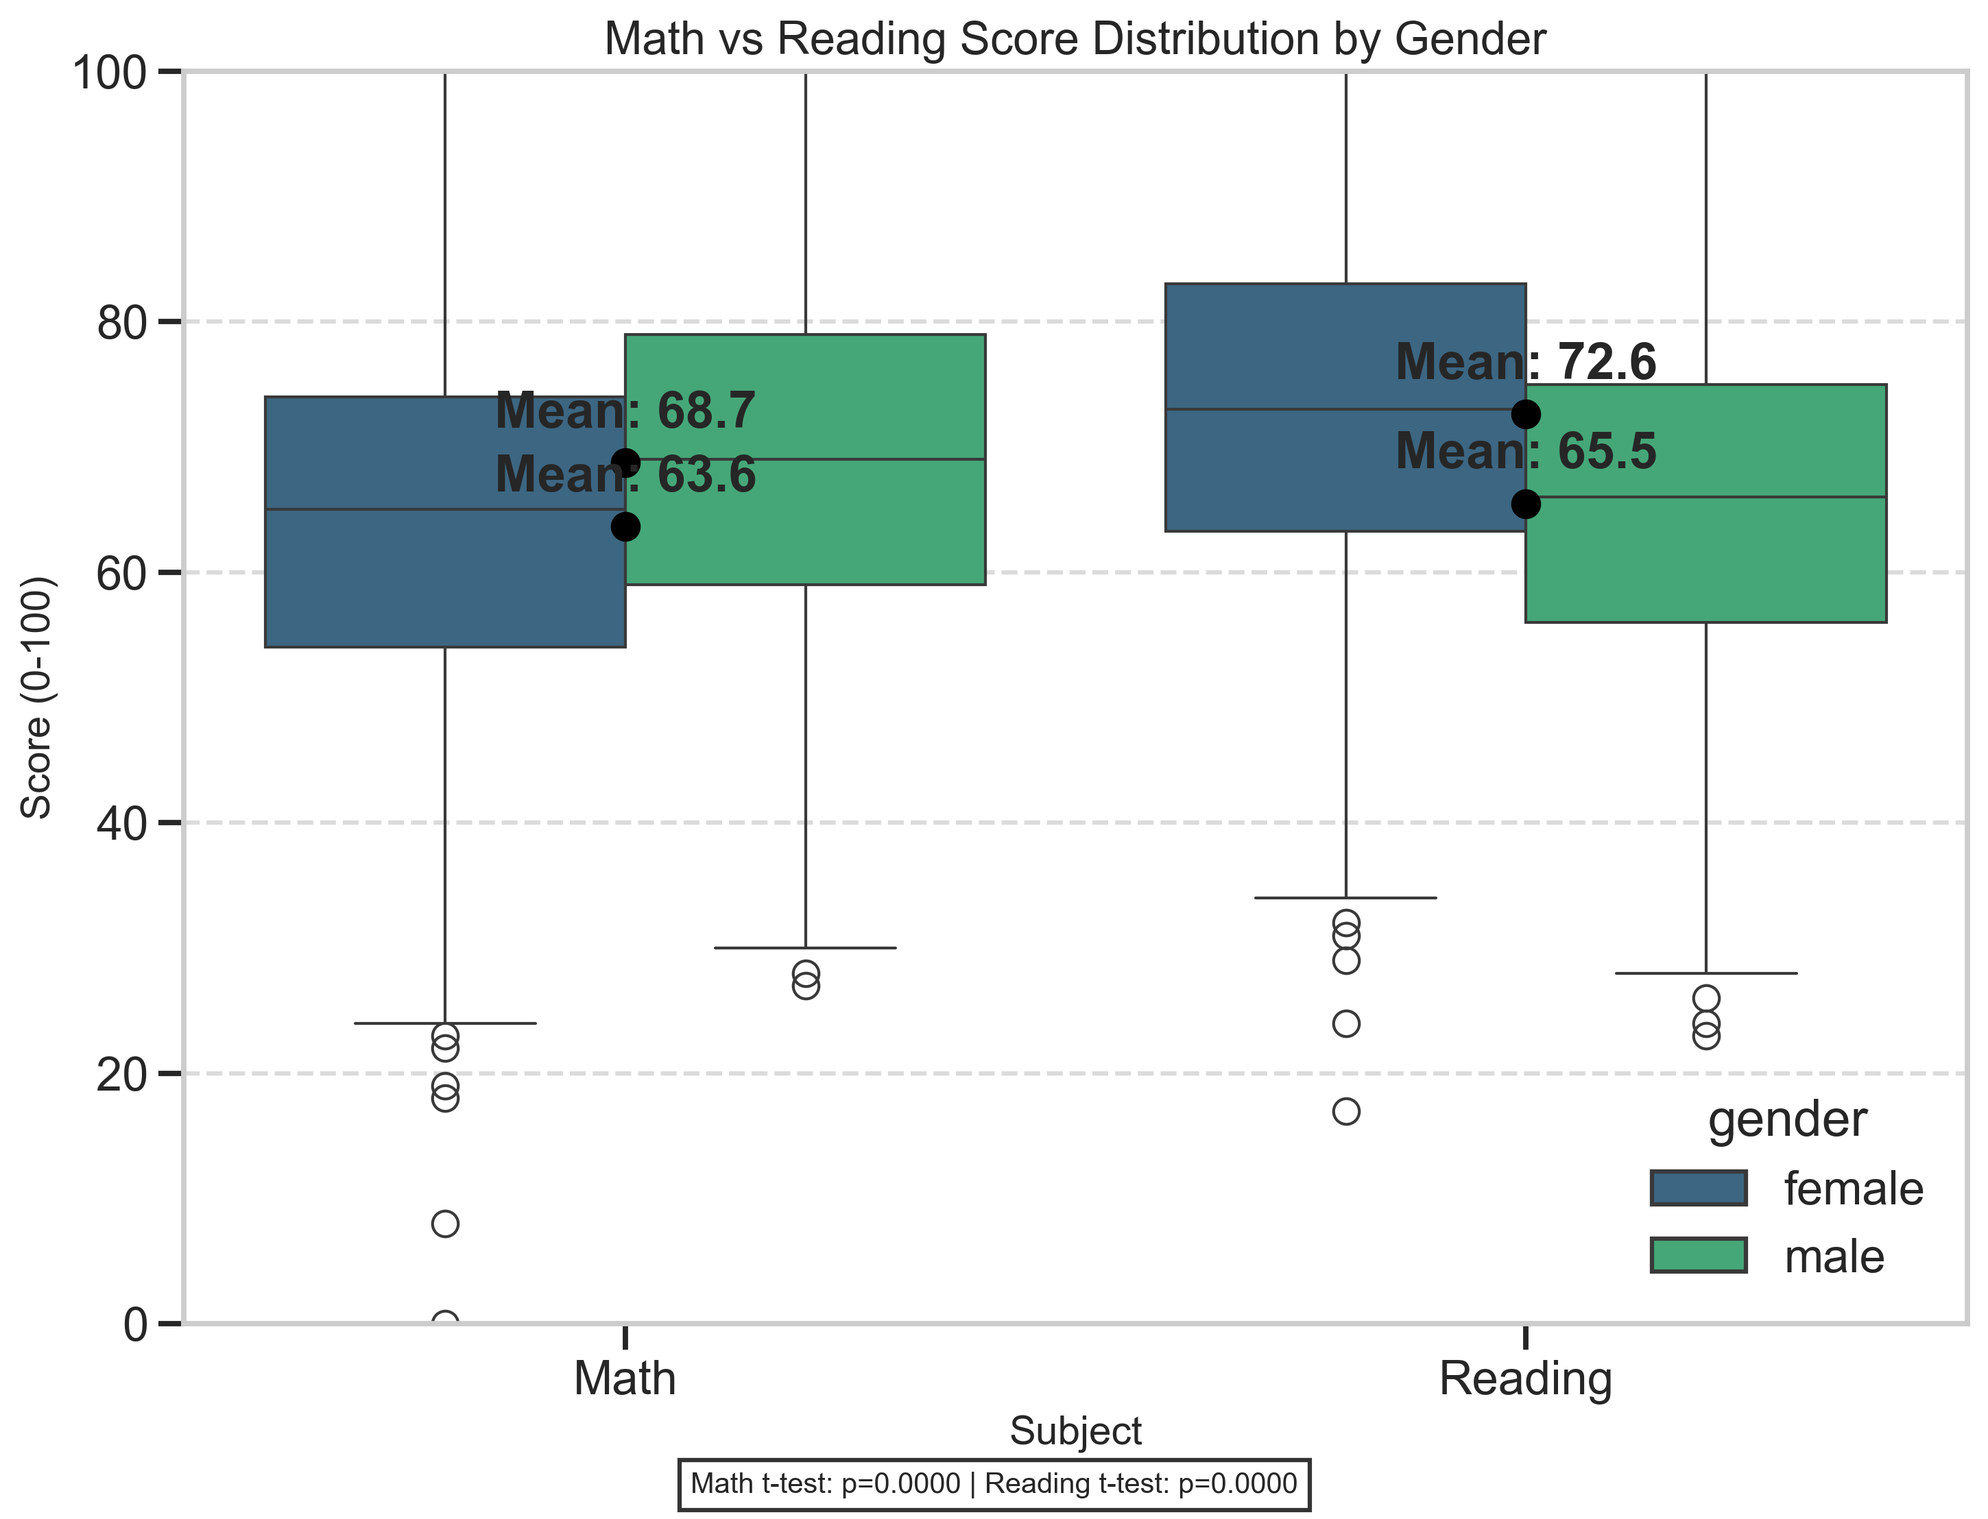
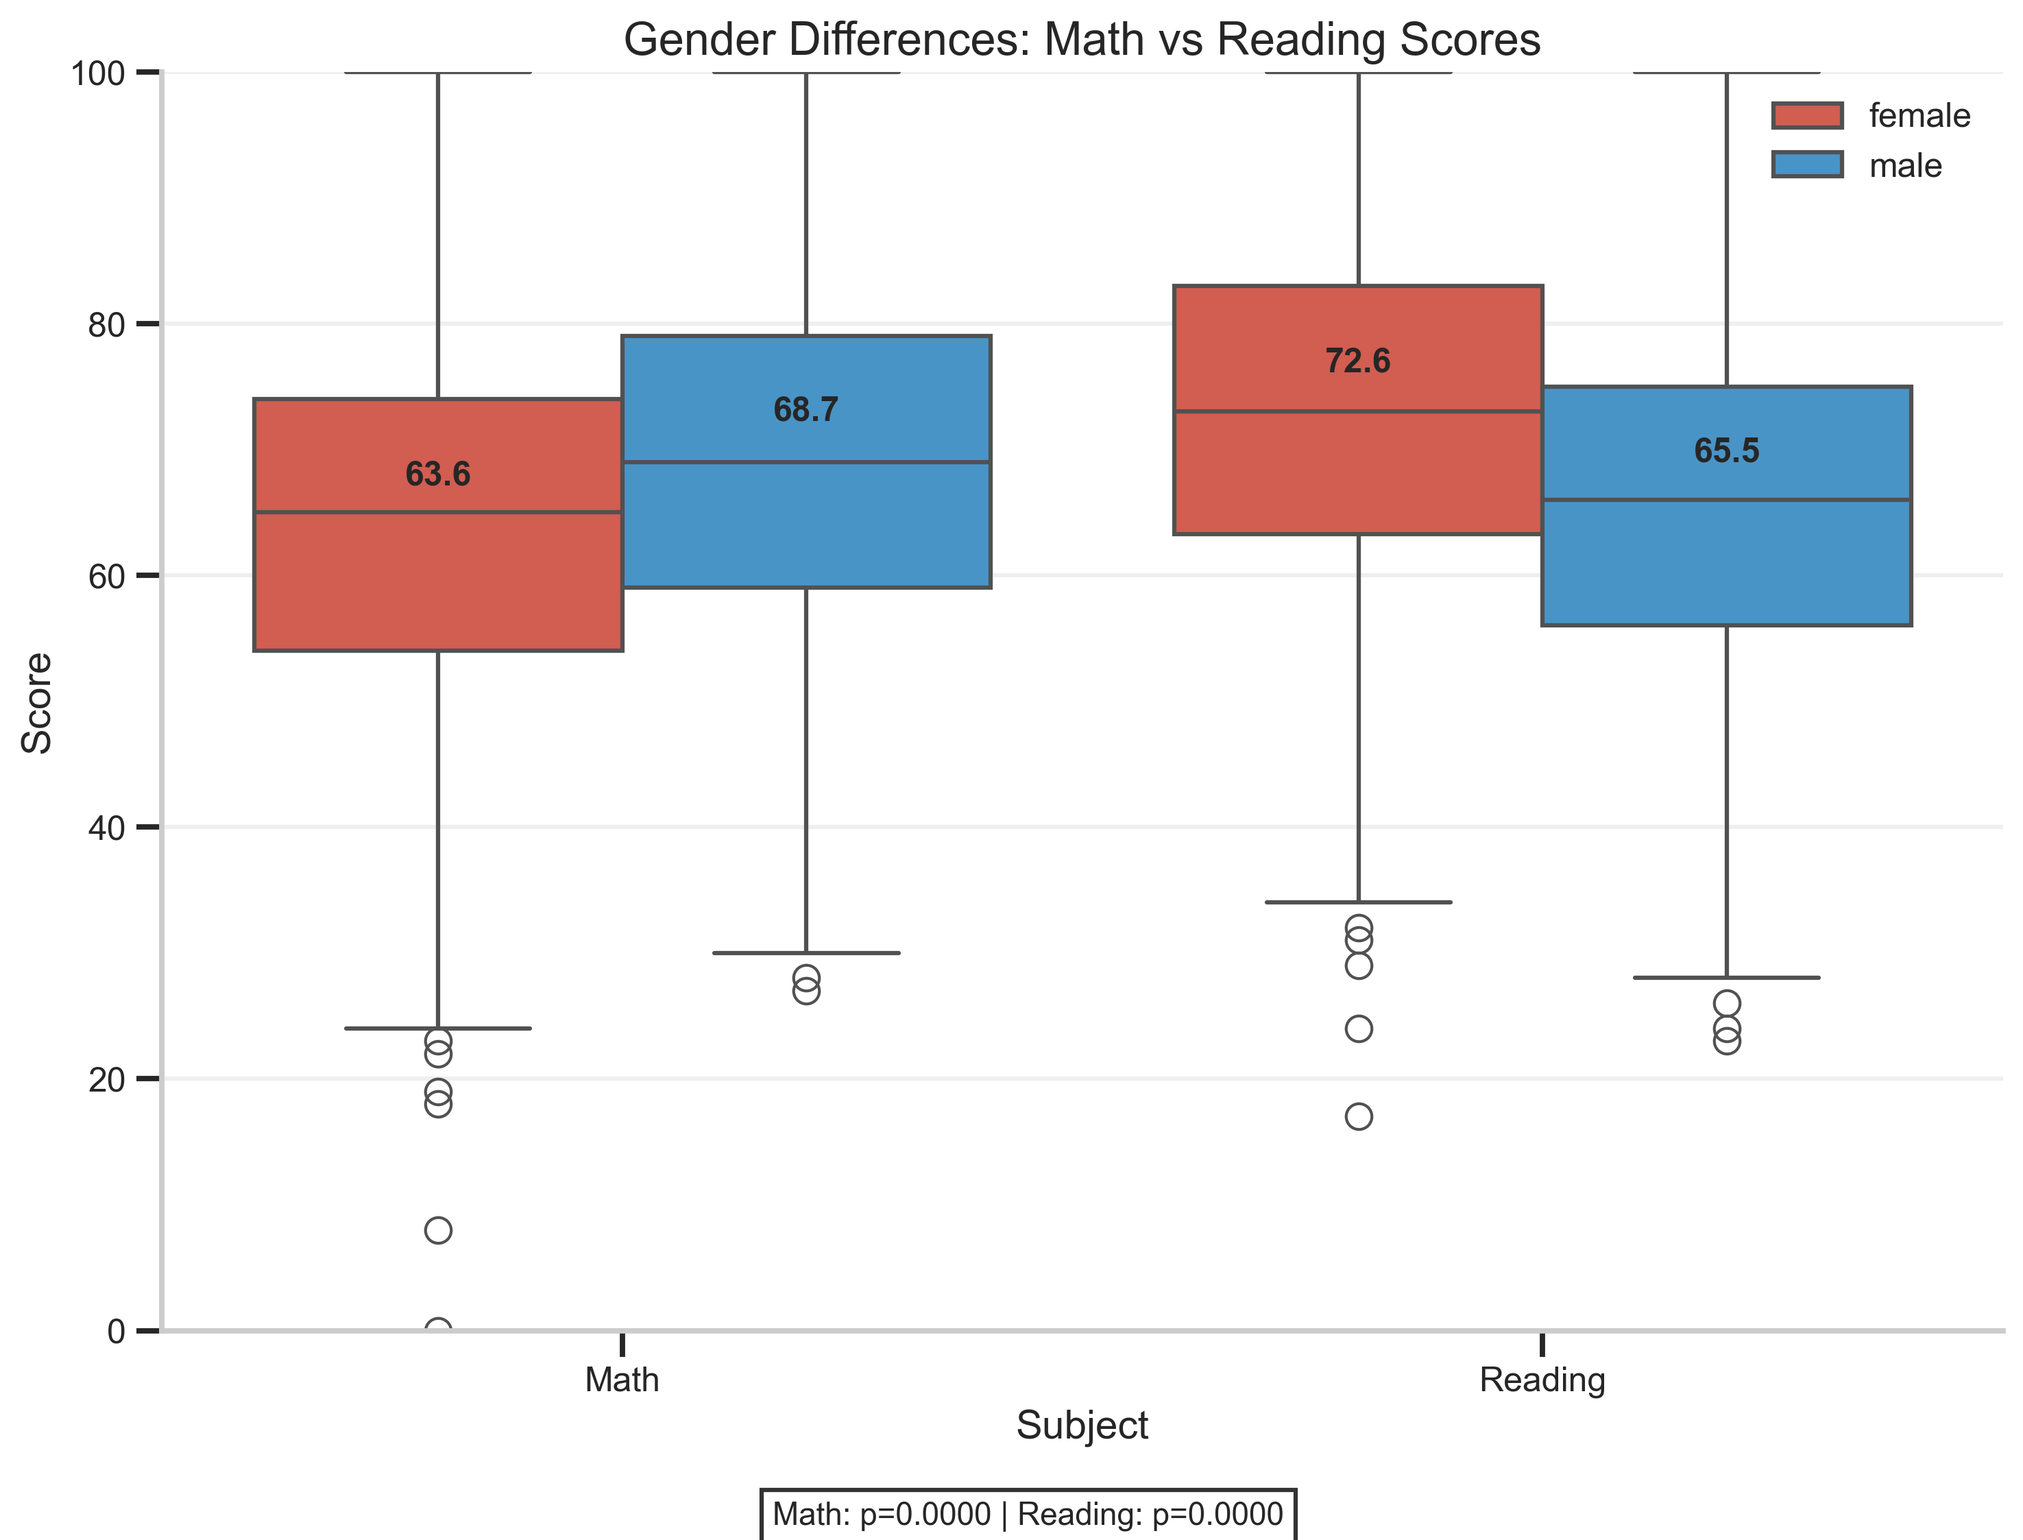
refactor(question-02): enhance visualizations

diff --git a/question-02/src/3_visualize.py b/question-02/src/3_visualize.py
@@ -30,8 +30,25 @@ reports_path = os.path.join(project_dir, 'reports')
 findings_path = os.path.join(reports_path, 'visualization_findings.md')
 
 # Common figure parameters
-FIG_SIZE = (10, 7.5)  # 800x600 at 100 DPI, we'll set DPI=300 when saving
+FIG_SIZE = (10, 7.5)  # 800x600 at 100 DPI, set DPI=300 when saving
 DPI = 300
+
+# Set general matplotlib parameters for cleaner plots
+plt.rcParams.update({
+    'font.size': 12,                    # Larger base font size
+    'axes.titlesize': 16,               # Large title
+    'axes.labelsize': 14,               # Clear axis labels
+    'xtick.labelsize': 12,              # Readable tick labels
+    'ytick.labelsize': 12,
+    'legend.fontsize': 12,              # Readable legend
+    'axes.spines.top': False,           # Remove top border
+    'axes.spines.right': False,         # Remove right border
+    'axes.grid': True,                  # Add light grid
+    'grid.alpha': 0.3,                  # Make grid subtle
+    'figure.figsize': FIG_SIZE,         # Consistent figure size
+    'figure.dpi': 100,                  # Screen display DPI
+    'savefig.dpi': DPI                  # Higher DPI for saved figures
+})
 
 def visualize_data():
     print("Stage 3: Data Visualization")
@@ -87,30 +104,36 @@ def create_gender_boxplots(df, save_path):
     plot_data = pd.concat([math_by_gender, reading_by_gender])
     
     # Create the plot
-    plt.figure(figsize=FIG_SIZE)
+    plt.figure()
     
-    # Create boxplot
-    sns.boxplot(x='subject', y='score', hue='gender', data=plot_data, palette='viridis')
+    # Create boxplot with consistent color mapping
+    sns.boxplot(x='subject', y='score', hue='gender', data=plot_data, 
+               palette={'female': '#e74c3c', 'male': '#3498db'}, linewidth=1.5)
     
     # Calculate and display means
     for subject in ['Math', 'Reading']:
-        for gender in ['male', 'female']:
-            subset = plot_data[(plot_data['subject'] == subject) & (plot_data['gender'] == gender)]
-            mean_score = subset['score'].mean()
-            plt.scatter(x=0 if subject == 'Math' else 1, y=mean_score, 
-                     marker='o', color='black', s=80, zorder=3)
-            plt.text(0 if subject == 'Math' else 1, mean_score + 2, 
-                  f'Mean: {mean_score:.1f}', 
-                  ha='center', va='bottom', fontweight='bold')
+        subject_idx = 0 if subject == 'Math' else 1
+        
+        # Calculate means for both genders
+        male_subset = plot_data[(plot_data['subject'] == subject) & (plot_data['gender'] == 'male')]
+        female_subset = plot_data[(plot_data['subject'] == subject) & (plot_data['gender'] == 'female')]
+        
+        male_mean = male_subset['score'].mean()
+        female_mean = female_subset['score'].mean()
+        
+        # Position text labels
+        plt.text(subject_idx - 0.2, female_mean + 3, f'{female_mean:.1f}', 
+              ha='center', va='bottom', fontweight='bold', fontsize=12)
+        plt.text(subject_idx + 0.2, male_mean + 3, f'{male_mean:.1f}', 
+              ha='center', va='bottom', fontweight='bold', fontsize=12)
     
     # Customize plot
-    plt.title('Math vs Reading Score Distribution by Gender', fontsize=16)
-    plt.xlabel('Subject', fontsize=14)
-    plt.ylabel('Score (0-100)', fontsize=14)
+    plt.title('Gender Differences: Math vs Reading Scores')
+    plt.xlabel('Subject')
+    plt.ylabel('Score')
     plt.ylim(0, 100)
-    plt.grid(axis='y', linestyle='--', alpha=0.7)
     
-    # Add statistical annotation
+    # Simplified statistical annotation
     math_male = df[df['gender'] == 'male']['math_score']
     math_female = df[df['gender'] == 'female']['math_score']
     reading_male = df[df['gender'] == 'male']['reading_score']
@@ -119,9 +142,12 @@ def create_gender_boxplots(df, save_path):
     math_ttest = stats.ttest_ind(math_male, math_female)
     reading_ttest = stats.ttest_ind(reading_male, reading_female)
     
-    plt.figtext(0.5, 0.01, 
-              f"Math t-test: p={math_ttest.pvalue:.4f} | Reading t-test: p={reading_ttest.pvalue:.4f}", 
-              ha='center', fontsize=10, bbox=dict(facecolor='white', alpha=0.8))
+    stat_text = f"Math: p={math_ttest.pvalue:.4f} | Reading: p={reading_ttest.pvalue:.4f}"
+    plt.annotate(stat_text, xy=(0.5, 0.01), xycoords='figure fraction', 
+               ha='center', fontsize=11, bbox=dict(facecolor='white', alpha=0.8))
+    
+    # Enhance legend
+    plt.legend(title=None, loc='upper right')
     
     # Save the figure
     plt.tight_layout()
@@ -134,23 +160,23 @@ def create_gender_boxplots(df, save_path):
 def create_test_prep_impact(df, save_path):
     """B. V2 - Test prep impact on math"""
     
-    plt.figure(figsize=FIG_SIZE)
+    plt.figure()
     
-    # Create violin plots with embedded boxplots - reverse the order with order parameter
-    sns.violinplot(x='test_preparation_course', y='math_score', 
-                 data=df, palette='viridis', inner='box', order=['completed', 'none'])
+    # Create simpler boxplots instead of violin plots for clarity
+    # Fix the FutureWarning by properly using hue instead of palette directly
+    sns.boxplot(x='test_preparation_course', y='math_score', 
+              data=df, hue='test_preparation_course', 
+              palette=['#2ecc71', '#f39c12'], 
+              order=['completed', 'none'], legend=False,
+              width=0.6, linewidth=1.5)
     
-    # Add individual data points with jitter
-    sns.stripplot(x='test_preparation_course', y='math_score', 
-                data=df, color='black', alpha=0.3, size=3, jitter=True, order=['completed', 'none'])
-    
-    # Calculate and display means - note the index is reversed
+    # Calculate and display means more clearly
     courses = ['completed', 'none']
     for i, course in enumerate(courses):
         mean_score = df[df['test_preparation_course'] == course]['math_score'].mean()
-        plt.scatter(x=i, y=mean_score, marker='o', color='red', s=100, zorder=3)
-        plt.text(i, mean_score + 2, f'Mean: {mean_score:.1f}', 
-              ha='center', va='bottom', fontweight='bold', color='red')
+        plt.text(i, mean_score + 2, f'{mean_score:.1f}', 
+              ha='center', va='bottom', fontweight='bold', fontsize=14,
+              color='black')
     
     # Add statistical test
     completed = df[df['test_preparation_course'] == 'completed']['math_score']
@@ -158,16 +184,15 @@ def create_test_prep_impact(df, save_path):
     ttest_result = stats.ttest_ind(completed, none)
     
     # Customize plot
-    plt.title('Impact of Test Preparation on Math Score', fontsize=16)
-    plt.xlabel('Test Preparation Course', fontsize=14)
-    plt.ylabel('Math Score (0-100)', fontsize=14)
+    plt.title('Impact of Test Preparation on Math Score')
+    plt.xlabel('Test Preparation')
+    plt.ylabel('Math Score')
     plt.ylim(0, 100)
-    plt.grid(axis='y', linestyle='--', alpha=0.7)
     
-    # Add statistical annotation
-    plt.figtext(0.5, 0.01, 
-              f"t-test: p={ttest_result.pvalue:.4f}", 
-              ha='center', fontsize=10, bbox=dict(facecolor='white', alpha=0.8))
+    # Add clearer statistical annotation
+    plt.annotate(f"p={ttest_result.pvalue:.4f}", 
+               xy=(0.5, 0.01), xycoords='figure fraction', 
+               ha='center', fontsize=11, bbox=dict(facecolor='white', alpha=0.8))
     
     # Save the figure
     plt.tight_layout()
@@ -192,24 +217,27 @@ def create_lunch_performance(df, save_path):
     plot_data['subject'] = plot_data['subject'].str.replace('_score', '').str.capitalize()
     
     # Create the plot
-    plt.figure(figsize=FIG_SIZE)
+    plt.figure()
     
-    # Create grouped bar chart
-    ax = sns.barplot(x='lunch', y='average_score', hue='subject', data=plot_data, palette='viridis')
+    # Create grouped bar chart with clearer colors
+    bar_colors = ['#3498db', '#2ecc71', '#9b59b6']  # Blue, green, purple
+    ax = sns.barplot(x='lunch', y='average_score', hue='subject', data=plot_data, 
+                   palette=bar_colors, edgecolor='white', linewidth=1)
     
-    # Add value labels on bars
+    # Add simplified value labels on bars
     for p in ax.patches:
-        ax.annotate(f'{p.get_height():.1f}', 
-                  (p.get_x() + p.get_width() / 2., p.get_height()), 
-                  ha='center', va='bottom', fontweight='bold')
+        height = p.get_height()
+        ax.annotate(f'{height:.0f}', 
+                  (p.get_x() + p.get_width() / 2., height + 0.5), 
+                  ha='center', va='bottom', fontweight='bold', fontsize=11)
     
     # Add overall average line for each lunch type
     for i, lunch_type in enumerate(['free/reduced', 'standard']):
         overall_avg = df[df['lunch'] == lunch_type]['overall_avg'].mean()
         plt.axhline(y=overall_avg, xmin=i/2, xmax=(i+1)/2, 
-                  color='red', linestyle='--', linewidth=2)
-        plt.text(i, overall_avg - 4, f'Overall: {overall_avg:.1f}', 
-              ha='center', va='top', color='red', fontweight='bold')
+                  color='#e74c3c', linestyle='-', linewidth=2)
+        plt.text(i, overall_avg - 3, f'Avg: {overall_avg:.1f}', 
+              ha='center', va='top', color='black', fontweight='bold')
     
     # Statistical test
     std_overall = df[df['lunch'] == 'standard']['overall_avg']
@@ -217,17 +245,22 @@ def create_lunch_performance(df, save_path):
     ttest_result = stats.ttest_ind(std_overall, free_overall)
     
     # Customize plot
-    plt.title('Average Test Scores by Lunch Type', fontsize=16)
-    plt.xlabel('Lunch Type', fontsize=14)
-    plt.ylabel('Average Score (0-100)', fontsize=14)
-    plt.ylim(0, 100)
-    plt.grid(axis='y', linestyle='--', alpha=0.7)
-    plt.legend(title='Subject')
+    plt.title('Average Scores by Lunch Type')
+    plt.xlabel('Lunch Type')
+    plt.ylabel('Score')
+    plt.ylim(0, 85)
     
-    # Add statistical annotation
-    plt.figtext(0.5, 0.01, 
-              f"Overall average t-test: p={ttest_result.pvalue:.4f}", 
-              ha='center', fontsize=10, bbox=dict(facecolor='white', alpha=0.8))
+    # Clean up legend
+    plt.legend(title=None, loc='upper right', frameon=True, framealpha=0.9)
+    
+    # Create t-test
+    ttest_result = stats.ttest_ind(std_overall, free_overall)
+
+    # Add clearer statistical annotation
+    plt.annotate(f"p={ttest_result.pvalue:.4f}", 
+               xy=(0.5, 0.01), xycoords='figure fraction', 
+               ha='center', fontsize=11,
+               bbox=dict(facecolor='white', alpha=0.8))
     
     # Save the figure
     plt.tight_layout()
@@ -244,22 +277,40 @@ def create_subject_correlations(df, save_path):
     subjects = ['math_score', 'reading_score', 'writing_score']
     corr_matrix = df[subjects].corr()
     
-    # Create the plot
-    plt.figure(figsize=FIG_SIZE)
+    # Rename columns/index for display
+    pretty_names = {'math_score': 'Math', 'reading_score': 'Reading', 'writing_score': 'Writing'}
+    corr_matrix = corr_matrix.rename(index=pretty_names, columns=pretty_names)
     
-    # Create heatmap
+    # Create the plot with square aspect ratio
+    plt.figure(figsize=(8, 6.5))
+    
+    # Create heatmap with improved readability
+    cmap = sns.diverging_palette(230, 20, as_cmap=True)
     mask = np.triu(np.ones_like(corr_matrix, dtype=bool))
-    sns.heatmap(corr_matrix, annot=True, fmt='.3f', cmap='viridis', 
-             mask=mask, vmin=0, vmax=1, square=True, linewidths=1, cbar_kws={"shrink": .8})
     
-    # Add correlations as text for the masked upper triangle
+    sns.heatmap(
+        corr_matrix, 
+        annot=True,            # Show the correlation values
+        fmt='.2f',             # Simpler number format (2 decimal places)
+        cmap=cmap,             # Better color scheme
+        mask=mask,             # Show only half of the symmetric matrix
+        vmin=0.75, vmax=1.0,   # Focus scale on relevant range
+        square=True,           # Make cells square
+        linewidths=0.8,        # Thin lines between cells
+        annot_kws={"size": 14, "weight": "bold"},  # Make numbers more readable
+        cbar_kws={"shrink": .8, "label": "Correlation"}  # Improve colorbar
+    )
+    
+    # Add correlations as text for the upper triangle
     for i in range(len(corr_matrix)):
         for j in range(i+1, len(corr_matrix)):
-            plt.text(j+0.5, i+0.5, f'{corr_matrix.iloc[i, j]:.3f}',
-                  ha='center', va='center', color='black', fontweight='bold')
+            plt.text(j+0.5, i+0.5, f'{corr_matrix.iloc[i, j]:.2f}',
+                  ha='center', va='center', color='black', fontweight='bold', fontsize=14)
     
     # Customize plot
-    plt.title('Correlation Heatmap Between Subject Scores', fontsize=16)
+    plt.title('Subject Score Correlations')
+    
+    # Save the figure with tight layout
     plt.tight_layout()
     plt.savefig(save_path, dpi=DPI, bbox_inches='tight')
     plt.close()
@@ -270,11 +321,12 @@ def create_subject_correlations(df, save_path):
 def create_math_reading_scatter(df, save_path):
     """E. V5 - Math vs reading scatter with trend lines by test prep"""
     
-    plt.figure(figsize=FIG_SIZE)
+    plt.figure()
     
-    # Create scatter plot with different colors for test prep groups
+    # Create scatter plot with clearer colors and better visibility
     groups = df['test_preparation_course'].unique()
-    colors = {'completed': 'green', 'none': 'orange'}
+    colors = {'completed': '#2ecc71', 'none': '#e67e22'}
+    markers = {'completed': 'o', 'none': 'x'}
     
     # Plot each group with regression line
     for group in groups:
@@ -287,33 +339,36 @@ def create_math_reading_scatter(df, save_path):
         slope, intercept, r_value, p_value, std_err = stats.linregress(
             subset['reading_score'], subset['math_score'])
         
-        # Plot scatter
+        # Plot scatter with reduced point size and increased clarity
         plt.scatter(subset['reading_score'], subset['math_score'], 
-                  alpha=0.6, color=colors[group], 
+                  alpha=0.5, color=colors[group], s=40,
+                  marker=markers[group], edgecolor='none',
                   label=f"{group} (n={n})")
         
-        # Add regression line
-        x = np.array([0, 100])
+        # Add regression line with increased width for visibility
+        x = np.array([20, 100])
         y = intercept + slope * x
-        plt.plot(x, y, color=colors[group], linewidth=2)
+        plt.plot(x, y, color=colors[group], linewidth=3)
         
-        # Add regression equation text
-        text_x = subset['reading_score'].mean()
-        text_y = intercept + slope * text_x + 5
-        plt.text(text_x, text_y, f"y = {intercept:.1f} + {slope:.2f}x\nR² = {r_value**2:.2f}", 
-               color=colors[group], fontweight='bold', ha='center', bbox=dict(facecolor='white', alpha=0.7))
+        # Add simpler regression equation text
+        text_x = 70
+        text_y = intercept + slope * text_x + (8 if group == 'completed' else -8)
+        plt.text(text_x, text_y, f"R² = {r_value**2:.2f}", 
+               color=colors[group], fontweight='bold', fontsize=12, ha='center', 
+               bbox=dict(facecolor='white', alpha=0.9, edgecolor=colors[group], boxstyle='round,pad=0.3'))
     
     # Customize plot
-    plt.title('Math vs Reading Scores by Test Preparation Status', fontsize=16)
-    plt.xlabel('Reading Score', fontsize=14)
-    plt.ylabel('Math Score', fontsize=14)
-    plt.xlim(0, 100)
-    plt.ylim(0, 100)
-    plt.grid(linestyle='--', alpha=0.7)
-    plt.legend(title='Test Preparation')
+    plt.title('Math vs Reading Scores by Test Preparation')
+    plt.xlabel('Reading Score')
+    plt.ylabel('Math Score')
+    plt.xlim(20, 100)
+    plt.ylim(20, 100)
     
-    # Add reference line (y=x)
-    plt.plot([0, 100], [0, 100], color='gray', linestyle='--', alpha=0.5)
+    # Create legend with clearer labels
+    legend = plt.legend(title=None, loc='lower right', 
+                      frameon=True, framealpha=0.9, edgecolor='gray')
+    
+    # Remove reference line - simplify the plot
     
     # Save the figure
     plt.tight_layout()
